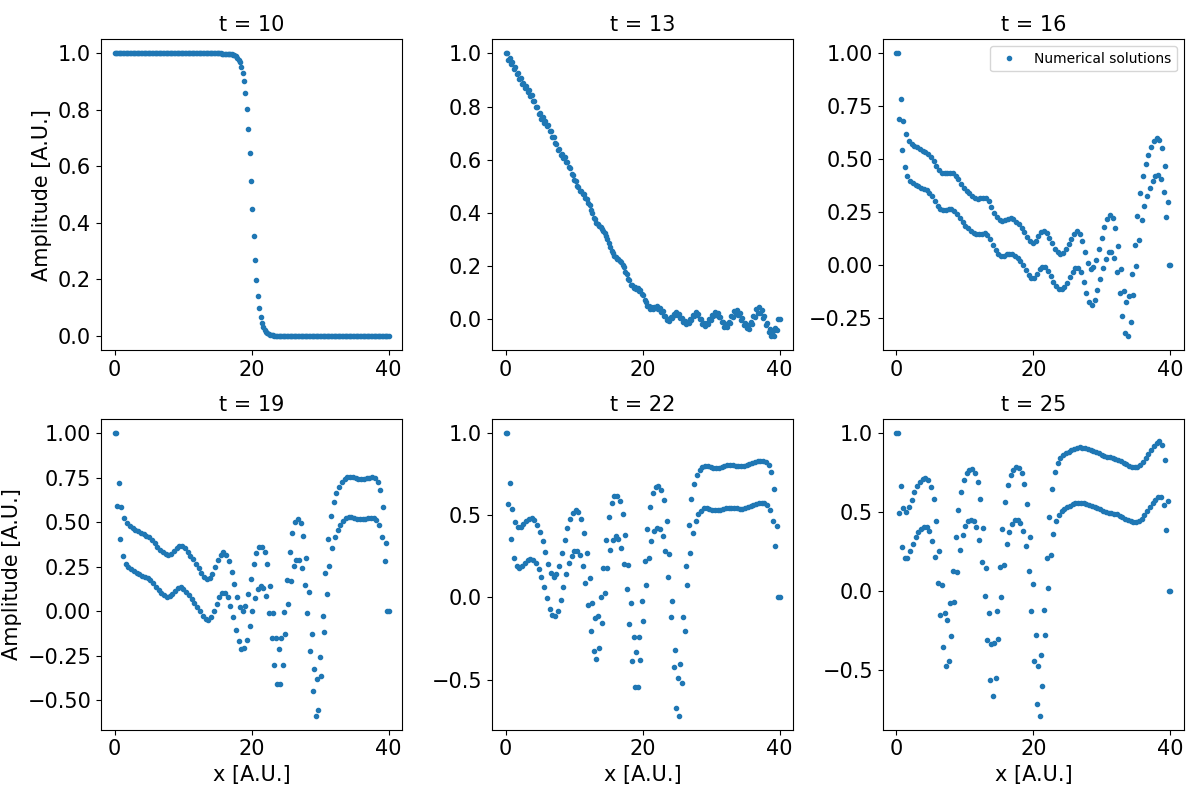
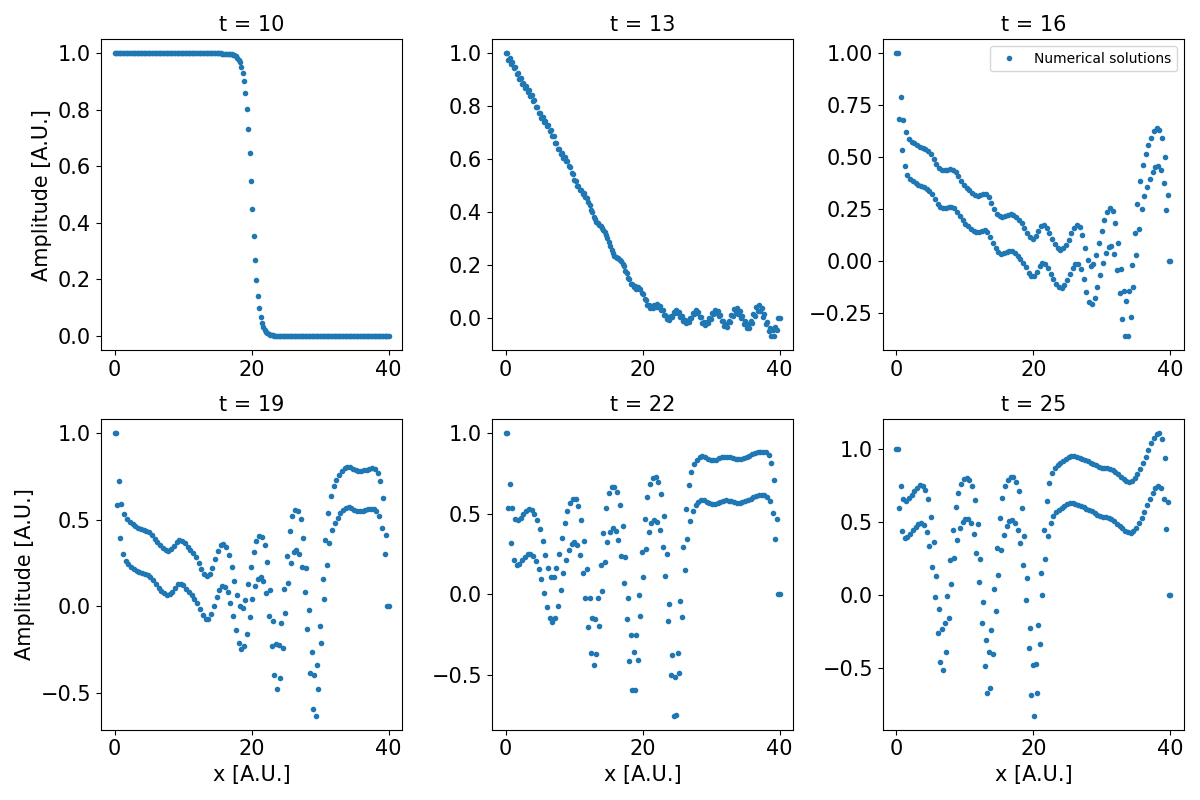
Improved solver u(i,j)
Substituted u(i,j) with the three point average

diff --git a/solver.py b/solver.py
@@ -33,13 +33,6 @@ def KdV_Solver(u, Delta_x = 0.2, Delta_t=0.001, bounds = (0,0), mu=1, eps=-6,lin
     l=int(lin)
 
     for j in range(t_size-1):
-        for i in range(2, x_size -2):
-
-            if j == 0:
-                u[i,j+1] = u[i, j] - Delta_t/(2*Delta_x) * eps * ((1-l)*u[i,j] + l)* (u[i+1,j] - u[i-1,j]) - Delta_t/(2*Delta_x**3) * mu *(u[i+2,j] - 2*u[i+1,j] +2*u[i-1,j]-u[i-2,j] )
-            
-            else:
-                u[i,j+1] = u[i, j-1] - Delta_t/Delta_x * eps * ((1-l)*u[i,j] + l) * (u[i+1,j] - u[i-1,j]) - Delta_t/Delta_x**3 * mu *(u[i+2,j] - 2*u[i+1,j] +2*u[i-1,j]-u[i-2,j] )
 
         # We assume fixed values for
         u[0,j+1] = bounds[0]
@@ -48,7 +41,15 @@ def KdV_Solver(u, Delta_x = 0.2, Delta_t=0.001, bounds = (0,0), mu=1, eps=-6,lin
         # We fix the derivative to be zero at the boundary:
         u[1,j+1] = u[0,j+1] 
         u[-2,j+1] = u[-1,j+1]
-    
+
+        for i in range(2, x_size -2):
+
+            if j == 0:
+                u[i,j+1] = u[i, j] - Delta_t/(2*Delta_x) * eps * ((1-l)*(u[i,j]+u[i-1,j]+u[i+1,j])/3 + l)* (u[i+1,j] - u[i-1,j]) - Delta_t/(2*Delta_x**3) * mu *(u[i+2,j] - 2*u[i+1,j] +2*u[i-1,j]-u[i-2,j] )
+            
+            else:
+                u[i,j+1] = u[i, j-1] - Delta_t/Delta_x * eps * ((1-l)*(u[i,j]+u[i-1,j]+u[i+1,j])/3 + l) * (u[i+1,j] - u[i-1,j]) - Delta_t/Delta_x**3 * mu *(u[i+2,j] - 2*u[i+1,j] +2*u[i-1,j]-u[i-2,j] )
+   
     return u 
         
 
